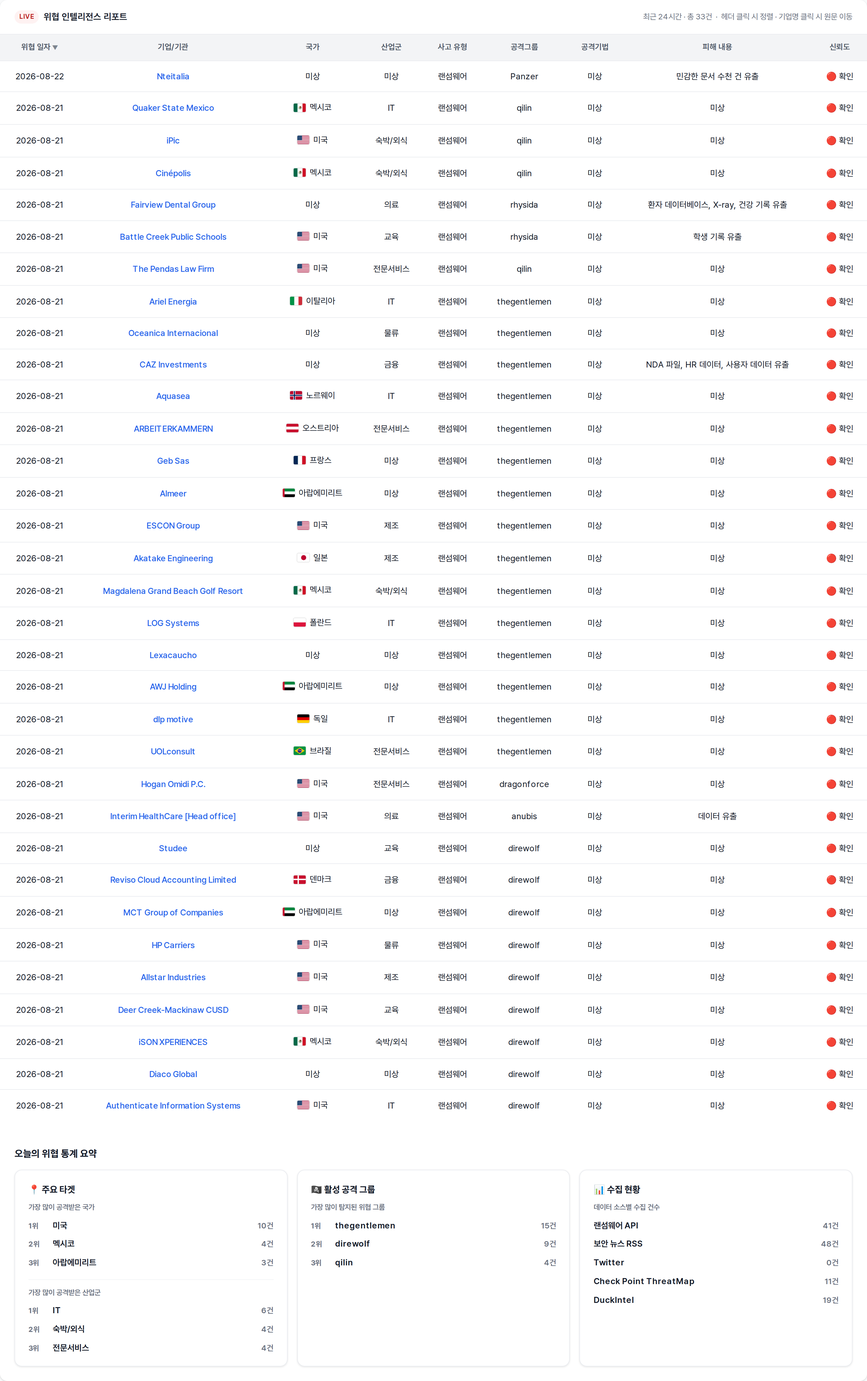
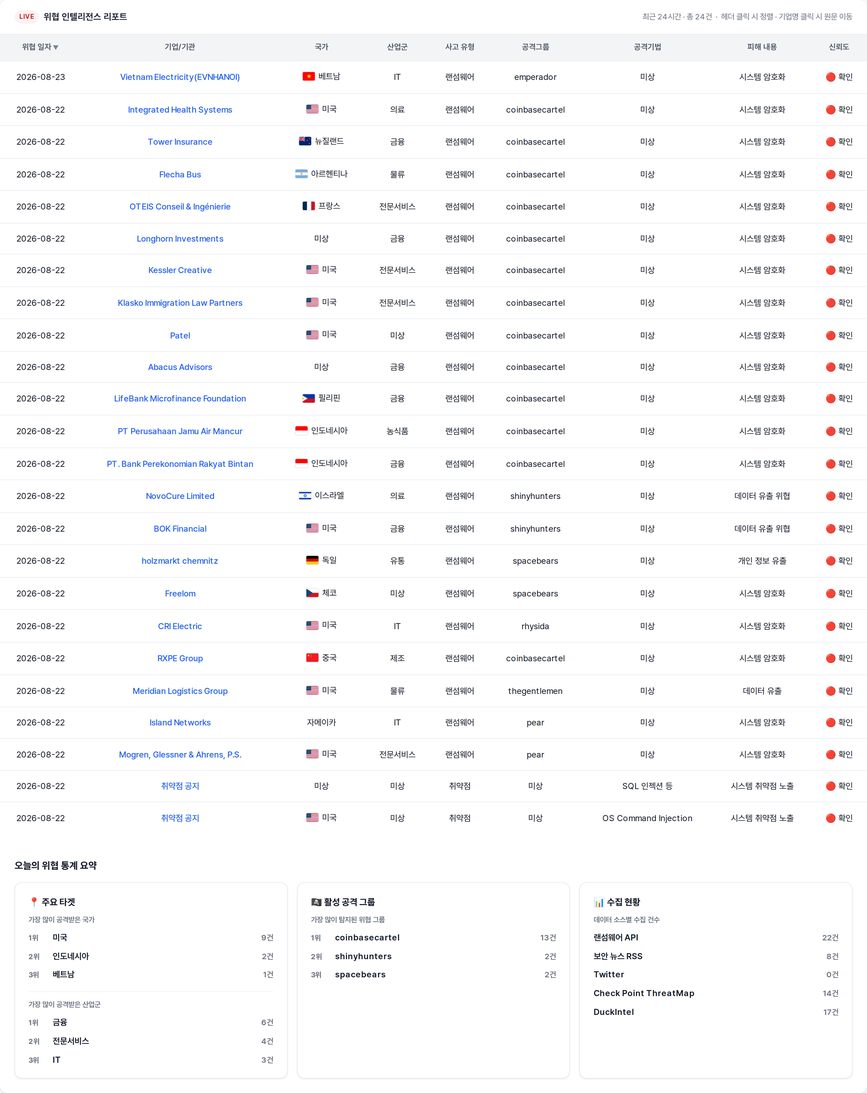
deploy: 9c533ad8fcaa3f846a31aadab046301a26f1192c

diff --git a/index.html b/index.html
@@ -3,7 +3,7 @@
 <head>
   <meta charset="UTF-8" />
   <meta name="viewport" content="width=device-width, initial-scale=1.0" />
-  <title>🚨 2026년 08월 22일 국내/해외 사이버 위협 현황</title>
+  <title>🚨 2026년 08월 23일 국내/해외 사이버 위협 현황</title>
   <link rel="preconnect" href="https://cdn.jsdelivr.net" />
   <link href="https://cdn.jsdelivr.net/gh/orioncactus/pretendard/dist/web/static/pretendard.css" rel="stylesheet" />
   <style>
@@ -253,7 +253,7 @@
 </head>
 <body>
   <div class="page-header">
-    <h1 class="page-title">🚨 2026년 08월 22일 국내/해외 사이버 위협 현황</h1>
+    <h1 class="page-title">🚨 2026년 08월 23일 국내/해외 사이버 위협 현황</h1>
   </div>
 
   <div class="dashboard">
@@ -261,45 +261,36 @@
     <div class="card-header">
       <span class="badge">LIVE</span>
       <span class="card-title">위협 인텔리전스 리포트</span>
-      <span class="card-count">최근 24시간 · 총 33건 &nbsp;·&nbsp; 헤더 클릭 시 정렬 · 기업명 클릭 시 원문 이동</span>
+      <span class="card-count">최근 24시간 · 총 24건 &nbsp;·&nbsp; 헤더 클릭 시 정렬 · 기업명 클릭 시 원문 이동</span>
     </div>
     <div class="table-wrap" style="overflow-x: auto; -webkit-overflow-scrolling: touch;">
       <table id="threat-table">
         <thead><tr><th onclick="sortTable(0)" data-col="0" class="sort-desc">위협 일자</th><th onclick="sortTable(1)" data-col="1">기업/기관</th><th onclick="sortTable(2)" data-col="2">국가</th><th onclick="sortTable(3)" data-col="3">산업군</th><th onclick="sortTable(4)" data-col="4">사고 유형</th><th onclick="sortTable(5)" data-col="5">공격그룹</th><th onclick="sortTable(6)" data-col="6">공격기법</th><th onclick="sortTable(7)" data-col="7">피해 내용</th><th onclick="sortTable(8)" data-col="8">신뢰도</th></tr></thead>
         <tbody>
-<tr><td>2026-08-22</td><td><a href="https://www.ransomware.live/id/TnRlaXRhbGlhQFBhbnplcg==" target="_blank" rel="noopener noreferrer">Nteitalia</a></td><td class="country"><span class="country-cell">미상</span></td><td>미상</td><td>랜섬웨어</td><td>Panzer</td><td>미상</td><td>민감한 문서 수천 건 유출</td><td>🔴 확인</td></tr>
-<tr><td>2026-08-21</td><td><a href="https://www.ransomware.live/id/UXVha2VyIFN0YXRlIE1leGljb0BxaWxpbg==" target="_blank" rel="noopener noreferrer">Quaker State Mexico</a></td><td class="country"><span class="country-cell"><img class="flag" src="https://flagcdn.com/w40/mx.png" alt="멕시코" width="20" height="14" />멕시코</span></td><td>IT</td><td>랜섬웨어</td><td>qilin</td><td>미상</td><td>미상</td><td>🔴 확인</td></tr>
-<tr><td>2026-08-21</td><td><a href="https://www.ransomware.live/id/aVBpY0BxaWxpbg==" target="_blank" rel="noopener noreferrer">iPic</a></td><td class="country"><span class="country-cell"><img class="flag" src="https://flagcdn.com/w40/us.png" alt="미국" width="20" height="14" />미국</span></td><td>숙박/외식</td><td>랜섬웨어</td><td>qilin</td><td>미상</td><td>미상</td><td>🔴 확인</td></tr>
-<tr><td>2026-08-21</td><td><a href="https://www.ransomware.live/id/Q2luw6lwb2xpc0BxaWxpbg==" target="_blank" rel="noopener noreferrer">Cinépolis</a></td><td class="country"><span class="country-cell"><img class="flag" src="https://flagcdn.com/w40/mx.png" alt="멕시코" width="20" height="14" />멕시코</span></td><td>숙박/외식</td><td>랜섬웨어</td><td>qilin</td><td>미상</td><td>미상</td><td>🔴 확인</td></tr>
-<tr><td>2026-08-21</td><td><a href="https://www.ransomware.live/id/RmFpcnZpZXcgRGVudGFsIEdyb3VwQHJoeXNpZGE=" target="_blank" rel="noopener noreferrer">Fairview Dental Group</a></td><td class="country"><span class="country-cell">미상</span></td><td>의료</td><td>랜섬웨어</td><td>rhysida</td><td>미상</td><td>환자 데이터베이스, X-ray, 건강 기록 유출</td><td>🔴 확인</td></tr>
-<tr><td>2026-08-21</td><td><a href="https://www.ransomware.live/id/QmF0dGxlIENyZWVrIFB1YmxpYyBTY2hvb2xzQHJoeXNpZGE=" target="_blank" rel="noopener noreferrer">Battle Creek Public Schools</a></td><td class="country"><span class="country-cell"><img class="flag" src="https://flagcdn.com/w40/us.png" alt="미국" width="20" height="14" />미국</span></td><td>교육</td><td>랜섬웨어</td><td>rhysida</td><td>미상</td><td>학생 기록 유출</td><td>🔴 확인</td></tr>
-<tr><td>2026-08-21</td><td><a href="https://www.ransomware.live/id/VGhlIFBlbmRhcyBMYXcgRmlybUBxaWxpbg==" target="_blank" rel="noopener noreferrer">The Pendas Law Firm</a></td><td class="country"><span class="country-cell"><img class="flag" src="https://flagcdn.com/w40/us.png" alt="미국" width="20" height="14" />미국</span></td><td>전문서비스</td><td>랜섬웨어</td><td>qilin</td><td>미상</td><td>미상</td><td>🔴 확인</td></tr>
-<tr><td>2026-08-21</td><td><a href="https://www.ransomware.live/id/QXJpZWwgRW5lcmdpYUB0aGVnZW50bGVtZW4=" target="_blank" rel="noopener noreferrer">Ariel Energia</a></td><td class="country"><span class="country-cell"><img class="flag" src="https://flagcdn.com/w40/it.png" alt="이탈리아" width="20" height="14" />이탈리아</span></td><td>IT</td><td>랜섬웨어</td><td>thegentlemen</td><td>미상</td><td>미상</td><td>🔴 확인</td></tr>
-<tr><td>2026-08-21</td><td><a href="https://www.ransomware.live/id/T2NlYW5pY2EgSW50ZXJuYWNpb25hbEB0aGVnZW50bGVtZW4=" target="_blank" rel="noopener noreferrer">Oceanica Internacional</a></td><td class="country"><span class="country-cell">미상</span></td><td>물류</td><td>랜섬웨어</td><td>thegentlemen</td><td>미상</td><td>미상</td><td>🔴 확인</td></tr>
-<tr><td>2026-08-21</td><td><a href="https://www.ransomware.live/id/Q0FaIEludmVzdG1lbnRzQHRoZWdlbnRsZW1lbg==" target="_blank" rel="noopener noreferrer">CAZ Investments</a></td><td class="country"><span class="country-cell">미상</span></td><td>금융</td><td>랜섬웨어</td><td>thegentlemen</td><td>미상</td><td>NDA 파일, HR 데이터, 사용자 데이터 유출</td><td>🔴 확인</td></tr>
-<tr><td>2026-08-21</td><td><a href="https://www.ransomware.live/id/QXF1YXNlYUB0aGVnZW50bGVtZW4=" target="_blank" rel="noopener noreferrer">Aquasea</a></td><td class="country"><span class="country-cell"><img class="flag" src="https://flagcdn.com/w40/no.png" alt="노르웨이" width="20" height="14" />노르웨이</span></td><td>IT</td><td>랜섬웨어</td><td>thegentlemen</td><td>미상</td><td>미상</td><td>🔴 확인</td></tr>
-<tr><td>2026-08-21</td><td><a href="https://www.ransomware.live/id/QVJCRUlURVJLQU1NRVJOQHRoZWdlbnRsZW1lbg==" target="_blank" rel="noopener noreferrer">ARBEITERKAMMERN</a></td><td class="country"><span class="country-cell"><img class="flag" src="https://flagcdn.com/w40/at.png" alt="오스트리아" width="20" height="14" />오스트리아</span></td><td>전문서비스</td><td>랜섬웨어</td><td>thegentlemen</td><td>미상</td><td>미상</td><td>🔴 확인</td></tr>
-<tr><td>2026-08-21</td><td><a href="https://www.ransomware.live/id/R2ViIFNhc0B0aGVnZW50bGVtZW4=" target="_blank" rel="noopener noreferrer">Geb Sas</a></td><td class="country"><span class="country-cell"><img class="flag" src="https://flagcdn.com/w40/fr.png" alt="프랑스" width="20" height="14" />프랑스</span></td><td>미상</td><td>랜섬웨어</td><td>thegentlemen</td><td>미상</td><td>미상</td><td>🔴 확인</td></tr>
-<tr><td>2026-08-21</td><td><a href="https://www.ransomware.live/id/QWxtZWVyQHRoZWdlbnRsZW1lbg==" target="_blank" rel="noopener noreferrer">Almeer</a></td><td class="country"><span class="country-cell"><img class="flag" src="https://flagcdn.com/w40/ae.png" alt="아랍에미리트" width="20" height="14" />아랍에미리트</span></td><td>미상</td><td>랜섬웨어</td><td>thegentlemen</td><td>미상</td><td>미상</td><td>🔴 확인</td></tr>
-<tr><td>2026-08-21</td><td><a href="https://www.ransomware.live/id/RVNDT04gR3JvdXBAdGhlZ2VudGxlbWVu" target="_blank" rel="noopener noreferrer">ESCON Group</a></td><td class="country"><span class="country-cell"><img class="flag" src="https://flagcdn.com/w40/us.png" alt="미국" width="20" height="14" />미국</span></td><td>제조</td><td>랜섬웨어</td><td>thegentlemen</td><td>미상</td><td>미상</td><td>🔴 확인</td></tr>
-<tr><td>2026-08-21</td><td><a href="https://www.ransomware.live/id/QWthdGFrZSBFbmdpbmVlcmluZ0B0aGVnZW50bGVtZW4=" target="_blank" rel="noopener noreferrer">Akatake Engineering</a></td><td class="country"><span class="country-cell"><img class="flag" src="https://flagcdn.com/w40/jp.png" alt="일본" width="20" height="14" />일본</span></td><td>제조</td><td>랜섬웨어</td><td>thegentlemen</td><td>미상</td><td>미상</td><td>🔴 확인</td></tr>
-<tr><td>2026-08-21</td><td><a href="https://www.ransomware.live/id/TWFnZGFsZW5hIEdyYW5kIEJlYWNoIEdvbGYgUmVzb3J0QHRoZWdlbnRsZW1lbg==" target="_blank" rel="noopener noreferrer">Magdalena Grand Beach Golf Resort</a></td><td class="country"><span class="country-cell"><img class="flag" src="https://flagcdn.com/w40/mx.png" alt="멕시코" width="20" height="14" />멕시코</span></td><td>숙박/외식</td><td>랜섬웨어</td><td>thegentlemen</td><td>미상</td><td>미상</td><td>🔴 확인</td></tr>
-<tr><td>2026-08-21</td><td><a href="https://www.ransomware.live/id/TE9HIFN5c3RlbXNAdGhlZ2VudGxlbWVu" target="_blank" rel="noopener noreferrer">LOG Systems</a></td><td class="country"><span class="country-cell"><img class="flag" src="https://flagcdn.com/w40/pl.png" alt="폴란드" width="20" height="14" />폴란드</span></td><td>IT</td><td>랜섬웨어</td><td>thegentlemen</td><td>미상</td><td>미상</td><td>🔴 확인</td></tr>
-<tr><td>2026-08-21</td><td><a href="https://www.ransomware.live/id/TGV4YWNhdWNob0B0aGVnZW50bGVtZW4=" target="_blank" rel="noopener noreferrer">Lexacaucho</a></td><td class="country"><span class="country-cell">미상</span></td><td>미상</td><td>랜섬웨어</td><td>thegentlemen</td><td>미상</td><td>미상</td><td>🔴 확인</td></tr>
-<tr><td>2026-08-21</td><td><a href="https://www.ransomware.live/id/QVdKIEhvbGRpbmdAdGhlZ2VudGxlbWVu" target="_blank" rel="noopener noreferrer">AWJ Holding</a></td><td class="country"><span class="country-cell"><img class="flag" src="https://flagcdn.com/w40/ae.png" alt="아랍에미리트" width="20" height="14" />아랍에미리트</span></td><td>미상</td><td>랜섬웨어</td><td>thegentlemen</td><td>미상</td><td>미상</td><td>🔴 확인</td></tr>
-<tr><td>2026-08-21</td><td><a href="https://www.ransomware.live/id/ZGxwIG1vdGl2ZUB0aGVnZW50bGVtZW4=" target="_blank" rel="noopener noreferrer">dlp motive</a></td><td class="country"><span class="country-cell"><img class="flag" src="https://flagcdn.com/w40/de.png" alt="독일" width="20" height="14" />독일</span></td><td>IT</td><td>랜섬웨어</td><td>thegentlemen</td><td>미상</td><td>미상</td><td>🔴 확인</td></tr>
-<tr><td>2026-08-21</td><td><a href="https://www.ransomware.live/id/VU9MY29uc3VsdEB0aGVnZW50bGVtZW4=" target="_blank" rel="noopener noreferrer">UOLconsult</a></td><td class="country"><span class="country-cell"><img class="flag" src="https://flagcdn.com/w40/br.png" alt="브라질" width="20" height="14" />브라질</span></td><td>전문서비스</td><td>랜섬웨어</td><td>thegentlemen</td><td>미상</td><td>미상</td><td>🔴 확인</td></tr>
-<tr><td>2026-08-21</td><td><a href="https://www.ransomware.live/id/SG9nYW4gT21pZGkgUC5DLkBkcmFnb25mb3JjZQ==" target="_blank" rel="noopener noreferrer">Hogan Omidi P.C.</a></td><td class="country"><span class="country-cell"><img class="flag" src="https://flagcdn.com/w40/us.png" alt="미국" width="20" height="14" />미국</span></td><td>전문서비스</td><td>랜섬웨어</td><td>dragonforce</td><td>미상</td><td>미상</td><td>🔴 확인</td></tr>
-<tr><td>2026-08-21</td><td><a href="https://www.ransomware.live/id/SW50ZXJpbSBIZWFsdGhDYXJlIFtIZWFkIG9mZmljZV1AYW51Ymlz" target="_blank" rel="noopener noreferrer">Interim HealthCare [Head office]</a></td><td class="country"><span class="country-cell"><img class="flag" src="https://flagcdn.com/w40/us.png" alt="미국" width="20" height="14" />미국</span></td><td>의료</td><td>랜섬웨어</td><td>anubis</td><td>미상</td><td>데이터 유출</td><td>🔴 확인</td></tr>
-<tr><td>2026-08-21</td><td><a href="https://www.ransomware.live/id/U3R1ZGVlQGRpcmV3b2xm" target="_blank" rel="noopener noreferrer">Studee</a></td><td class="country"><span class="country-cell">미상</span></td><td>교육</td><td>랜섬웨어</td><td>direwolf</td><td>미상</td><td>미상</td><td>🔴 확인</td></tr>
-<tr><td>2026-08-21</td><td><a href="https://www.ransomware.live/id/UmV2aXNvIENsb3VkIEFjY291bnRpbmcgTGltaXRlZEBkaXJld29sZg==" target="_blank" rel="noopener noreferrer">Reviso Cloud Accounting Limited</a></td><td class="country"><span class="country-cell"><img class="flag" src="https://flagcdn.com/w40/dk.png" alt="덴마크" width="20" height="14" />덴마크</span></td><td>금융</td><td>랜섬웨어</td><td>direwolf</td><td>미상</td><td>미상</td><td>🔴 확인</td></tr>
-<tr><td>2026-08-21</td><td><a href="https://www.ransomware.live/id/TUNUIEdyb3VwIG9mIENvbXBhbmllc0BkaXJld29sZg==" target="_blank" rel="noopener noreferrer">MCT Group of Companies</a></td><td class="country"><span class="country-cell"><img class="flag" src="https://flagcdn.com/w40/ae.png" alt="아랍에미리트" width="20" height="14" />아랍에미리트</span></td><td>미상</td><td>랜섬웨어</td><td>direwolf</td><td>미상</td><td>미상</td><td>🔴 확인</td></tr>
-<tr><td>2026-08-21</td><td><a href="https://www.ransomware.live/id/SFAgQ2FycmllcnNAZGlyZXdvbGY=" target="_blank" rel="noopener noreferrer">HP Carriers</a></td><td class="country"><span class="country-cell"><img class="flag" src="https://flagcdn.com/w40/us.png" alt="미국" width="20" height="14" />미국</span></td><td>물류</td><td>랜섬웨어</td><td>direwolf</td><td>미상</td><td>미상</td><td>🔴 확인</td></tr>
-<tr><td>2026-08-21</td><td><a href="https://www.ransomware.live/id/QWxsc3RhciBJbmR1c3RyaWVzQGRpcmV3b2xm" target="_blank" rel="noopener noreferrer">Allstar Industries</a></td><td class="country"><span class="country-cell"><img class="flag" src="https://flagcdn.com/w40/us.png" alt="미국" width="20" height="14" />미국</span></td><td>제조</td><td>랜섬웨어</td><td>direwolf</td><td>미상</td><td>미상</td><td>🔴 확인</td></tr>
-<tr><td>2026-08-21</td><td><a href="https://www.ransomware.live/id/RGVlciBDcmVlay1NYWNraW5hdyBDVVNEQGRpcmV3b2xm" target="_blank" rel="noopener noreferrer">Deer Creek-Mackinaw CUSD</a></td><td class="country"><span class="country-cell"><img class="flag" src="https://flagcdn.com/w40/us.png" alt="미국" width="20" height="14" />미국</span></td><td>교육</td><td>랜섬웨어</td><td>direwolf</td><td>미상</td><td>미상</td><td>🔴 확인</td></tr>
-<tr><td>2026-08-21</td><td><a href="https://www.ransomware.live/id/aVNPTiBYUEVSSUVOQ0VTQGRpcmV3b2xm" target="_blank" rel="noopener noreferrer">iSON XPERIENCES</a></td><td class="country"><span class="country-cell"><img class="flag" src="https://flagcdn.com/w40/mx.png" alt="멕시코" width="20" height="14" />멕시코</span></td><td>숙박/외식</td><td>랜섬웨어</td><td>direwolf</td><td>미상</td><td>미상</td><td>🔴 확인</td></tr>
-<tr><td>2026-08-21</td><td><a href="https://www.ransomware.live/id/RGlhY28gR2xvYmFsQGRpcmV3b2xm" target="_blank" rel="noopener noreferrer">Diaco Global</a></td><td class="country"><span class="country-cell">미상</span></td><td>미상</td><td>랜섬웨어</td><td>direwolf</td><td>미상</td><td>미상</td><td>🔴 확인</td></tr>
-<tr><td>2026-08-21</td><td><a href="https://www.ransomware.live/id/QXV0aGVudGljYXRlIEluZm9ybWF0aW9uIFN5c3RlbXNAZGlyZXdvbGY=" target="_blank" rel="noopener noreferrer">Authenticate Information Systems</a></td><td class="country"><span class="country-cell"><img class="flag" src="https://flagcdn.com/w40/us.png" alt="미국" width="20" height="14" />미국</span></td><td>IT</td><td>랜섬웨어</td><td>direwolf</td><td>미상</td><td>미상</td><td>🔴 확인</td></tr>
+<tr><td>2026-08-23</td><td><a href="https://www.ransomware.live/id/VmlldG5hbSBFbGVjdHJpY2l0eShFVk5IQU5PSSlAZW1wZXJhZG9y" target="_blank" rel="noopener noreferrer">Vietnam Electricity(EVNHANOI)</a></td><td class="country"><span class="country-cell"><img class="flag" src="https://flagcdn.com/w40/vn.png" alt="베트남" width="20" height="14" />베트남</span></td><td>IT</td><td>랜섬웨어</td><td>emperador</td><td>미상</td><td>시스템 암호화</td><td>🔴 확인</td></tr>
+<tr><td>2026-08-22</td><td><a href="https://www.ransomware.live/id/SW50ZWdyYXRlZCBIZWFsdGggU3lzdGVtc0Bjb2luYmFzZWNhcnRlbA==" target="_blank" rel="noopener noreferrer">Integrated Health Systems</a></td><td class="country"><span class="country-cell"><img class="flag" src="https://flagcdn.com/w40/us.png" alt="미국" width="20" height="14" />미국</span></td><td>의료</td><td>랜섬웨어</td><td>coinbasecartel</td><td>미상</td><td>시스템 암호화</td><td>🔴 확인</td></tr>
+<tr><td>2026-08-22</td><td><a href="https://www.ransomware.live/id/VG93ZXIgSW5zdXJhbmNlQGNvaW5iYXNlY2FydGVs" target="_blank" rel="noopener noreferrer">Tower Insurance</a></td><td class="country"><span class="country-cell"><img class="flag" src="https://flagcdn.com/w40/nz.png" alt="뉴질랜드" width="20" height="14" />뉴질랜드</span></td><td>금융</td><td>랜섬웨어</td><td>coinbasecartel</td><td>미상</td><td>시스템 암호화</td><td>🔴 확인</td></tr>
+<tr><td>2026-08-22</td><td><a href="https://www.ransomware.live/id/RmxlY2hhIEJ1c0Bjb2luYmFzZWNhcnRlbA==" target="_blank" rel="noopener noreferrer">Flecha Bus</a></td><td class="country"><span class="country-cell"><img class="flag" src="https://flagcdn.com/w40/ar.png" alt="아르헨티나" width="20" height="14" />아르헨티나</span></td><td>물류</td><td>랜섬웨어</td><td>coinbasecartel</td><td>미상</td><td>시스템 암호화</td><td>🔴 확인</td></tr>
+<tr><td>2026-08-22</td><td><a href="https://www.ransomware.live/id/T1RFSVMgQ29uc2VpbCAmIEluZ8OpbmllcmllQGNvaW5iYXNlY2FydGVs" target="_blank" rel="noopener noreferrer">OTEIS Conseil &amp; Ingénierie</a></td><td class="country"><span class="country-cell"><img class="flag" src="https://flagcdn.com/w40/fr.png" alt="프랑스" width="20" height="14" />프랑스</span></td><td>전문서비스</td><td>랜섬웨어</td><td>coinbasecartel</td><td>미상</td><td>시스템 암호화</td><td>🔴 확인</td></tr>
+<tr><td>2026-08-22</td><td><a href="https://www.ransomware.live/id/TG9uZ2hvcm4gSW52ZXN0bWVudHNAY29pbmJhc2VjYXJ0ZWw=" target="_blank" rel="noopener noreferrer">Longhorn Investments</a></td><td class="country"><span class="country-cell">미상</span></td><td>금융</td><td>랜섬웨어</td><td>coinbasecartel</td><td>미상</td><td>시스템 암호화</td><td>🔴 확인</td></tr>
+<tr><td>2026-08-22</td><td><a href="https://www.ransomware.live/id/S2Vzc2xlciBDcmVhdGl2ZUBjb2luYmFzZWNhcnRlbA==" target="_blank" rel="noopener noreferrer">Kessler Creative</a></td><td class="country"><span class="country-cell"><img class="flag" src="https://flagcdn.com/w40/us.png" alt="미국" width="20" height="14" />미국</span></td><td>전문서비스</td><td>랜섬웨어</td><td>coinbasecartel</td><td>미상</td><td>시스템 암호화</td><td>🔴 확인</td></tr>
+<tr><td>2026-08-22</td><td><a href="https://www.ransomware.live/id/S2xhc2tvIEltbWlncmF0aW9uIExhdyBQYXJ0bmVyc0Bjb2luYmFzZWNhcnRlbA==" target="_blank" rel="noopener noreferrer">Klasko Immigration Law Partners</a></td><td class="country"><span class="country-cell"><img class="flag" src="https://flagcdn.com/w40/us.png" alt="미국" width="20" height="14" />미국</span></td><td>전문서비스</td><td>랜섬웨어</td><td>coinbasecartel</td><td>미상</td><td>시스템 암호화</td><td>🔴 확인</td></tr>
+<tr><td>2026-08-22</td><td><a href="https://www.ransomware.live/id/UGF0ZWxAY29pbmJhc2VjYXJ0ZWw=" target="_blank" rel="noopener noreferrer">Patel</a></td><td class="country"><span class="country-cell"><img class="flag" src="https://flagcdn.com/w40/us.png" alt="미국" width="20" height="14" />미국</span></td><td>미상</td><td>랜섬웨어</td><td>coinbasecartel</td><td>미상</td><td>시스템 암호화</td><td>🔴 확인</td></tr>
+<tr><td>2026-08-22</td><td><a href="https://www.ransomware.live/id/QWJhY3VzIEFkdmlzb3JzQGNvaW5iYXNlY2FydGVs" target="_blank" rel="noopener noreferrer">Abacus Advisors</a></td><td class="country"><span class="country-cell">미상</span></td><td>금융</td><td>랜섬웨어</td><td>coinbasecartel</td><td>미상</td><td>시스템 암호화</td><td>🔴 확인</td></tr>
+<tr><td>2026-08-22</td><td><a href="https://www.ransomware.live/id/TGlmZUJhbmsgTWljcm9maW5hbmNlIEZvdW5kYXRpb25AY29pbmJhc2VjYXJ0ZWw=" target="_blank" rel="noopener noreferrer">LifeBank Microfinance Foundation</a></td><td class="country"><span class="country-cell"><img class="flag" src="https://flagcdn.com/w40/ph.png" alt="필리핀" width="20" height="14" />필리핀</span></td><td>금융</td><td>랜섬웨어</td><td>coinbasecartel</td><td>미상</td><td>시스템 암호화</td><td>🔴 확인</td></tr>
+<tr><td>2026-08-22</td><td><a href="https://www.ransomware.live/id/UFQgUGVydXNhaGFhbiBKYW11IEFpciBNYW5jdXJAY29pbmJhc2VjYXJ0ZWw=" target="_blank" rel="noopener noreferrer">PT Perusahaan Jamu Air Mancur</a></td><td class="country"><span class="country-cell"><img class="flag" src="https://flagcdn.com/w40/id.png" alt="인도네시아" width="20" height="14" />인도네시아</span></td><td>농식품</td><td>랜섬웨어</td><td>coinbasecartel</td><td>미상</td><td>시스템 암호화</td><td>🔴 확인</td></tr>
+<tr><td>2026-08-22</td><td><a href="https://www.ransomware.live/id/UFQuIEJhbmsgUGVyZWtvbm9taWFuIFJha3lhdCBCaW50YW5AY29pbmJhc2VjYXJ0ZWw=" target="_blank" rel="noopener noreferrer">PT. Bank Perekonomian Rakyat Bintan</a></td><td class="country"><span class="country-cell"><img class="flag" src="https://flagcdn.com/w40/id.png" alt="인도네시아" width="20" height="14" />인도네시아</span></td><td>금융</td><td>랜섬웨어</td><td>coinbasecartel</td><td>미상</td><td>시스템 암호화</td><td>🔴 확인</td></tr>
+<tr><td>2026-08-22</td><td><a href="https://www.ransomware.live/id/Tm92b0N1cmUgTGltaXRlZEBzaGlueWh1bnRlcnM=" target="_blank" rel="noopener noreferrer">NovoCure Limited</a></td><td class="country"><span class="country-cell"><img class="flag" src="https://flagcdn.com/w40/il.png" alt="이스라엘" width="20" height="14" />이스라엘</span></td><td>의료</td><td>랜섬웨어</td><td>shinyhunters</td><td>미상</td><td>데이터 유출 위협</td><td>🔴 확인</td></tr>
+<tr><td>2026-08-22</td><td><a href="https://www.ransomware.live/id/Qk9LIEZpbmFuY2lhbEBzaGlueWh1bnRlcnM=" target="_blank" rel="noopener noreferrer">BOK Financial</a></td><td class="country"><span class="country-cell"><img class="flag" src="https://flagcdn.com/w40/us.png" alt="미국" width="20" height="14" />미국</span></td><td>금융</td><td>랜섬웨어</td><td>shinyhunters</td><td>미상</td><td>데이터 유출 위협</td><td>🔴 확인</td></tr>
+<tr><td>2026-08-22</td><td><a href="https://www.ransomware.live/id/aG9sem1hcmt0IGNoZW1uaXR6QHNwYWNlYmVhcnM=" target="_blank" rel="noopener noreferrer">holzmarkt chemnitz</a></td><td class="country"><span class="country-cell"><img class="flag" src="https://flagcdn.com/w40/de.png" alt="독일" width="20" height="14" />독일</span></td><td>유통</td><td>랜섬웨어</td><td>spacebears</td><td>미상</td><td>개인 정보 유출</td><td>🔴 확인</td></tr>
+<tr><td>2026-08-22</td><td><a href="https://www.ransomware.live/id/RnJlZWxvbUBzcGFjZWJlYXJz" target="_blank" rel="noopener noreferrer">Freelom</a></td><td class="country"><span class="country-cell"><img class="flag" src="https://flagcdn.com/w40/cz.png" alt="체코" width="20" height="14" />체코</span></td><td>미상</td><td>랜섬웨어</td><td>spacebears</td><td>미상</td><td>시스템 암호화</td><td>🔴 확인</td></tr>
+<tr><td>2026-08-22</td><td><a href="https://www.ransomware.live/id/Q1JJIEVsZWN0cmljQHJoeXNpZGE=" target="_blank" rel="noopener noreferrer">CRI Electric</a></td><td class="country"><span class="country-cell"><img class="flag" src="https://flagcdn.com/w40/us.png" alt="미국" width="20" height="14" />미국</span></td><td>IT</td><td>랜섬웨어</td><td>rhysida</td><td>미상</td><td>시스템 암호화</td><td>🔴 확인</td></tr>
+<tr><td>2026-08-22</td><td><a href="https://www.ransomware.live/id/UlhQRSBHcm91cEBjb2luYmFzZWNhcnRlbA==" target="_blank" rel="noopener noreferrer">RXPE Group</a></td><td class="country"><span class="country-cell"><img class="flag" src="https://flagcdn.com/w40/cn.png" alt="중국" width="20" height="14" />중국</span></td><td>제조</td><td>랜섬웨어</td><td>coinbasecartel</td><td>미상</td><td>시스템 암호화</td><td>🔴 확인</td></tr>
+<tr><td>2026-08-22</td><td><a href="https://www.ransomware.live/id/TWVyaWRpYW4gTG9naXN0aWNzIEdyb3VwQHRoZWdlbnRsZW1lbg==" target="_blank" rel="noopener noreferrer">Meridian Logistics Group</a></td><td class="country"><span class="country-cell"><img class="flag" src="https://flagcdn.com/w40/us.png" alt="미국" width="20" height="14" />미국</span></td><td>물류</td><td>랜섬웨어</td><td>thegentlemen</td><td>미상</td><td>데이터 유출</td><td>🔴 확인</td></tr>
+<tr><td>2026-08-22</td><td><a href="https://www.ransomware.live/id/SXNsYW5kIE5ldHdvcmtzQHBlYXI=" target="_blank" rel="noopener noreferrer">Island Networks</a></td><td class="country"><span class="country-cell">자메이카</span></td><td>IT</td><td>랜섬웨어</td><td>pear</td><td>미상</td><td>시스템 암호화</td><td>🔴 확인</td></tr>
+<tr><td>2026-08-22</td><td><a href="https://www.ransomware.live/id/TW9ncmVuLCBHbGVzc25lciAmIEFocmVucywgUC5TLkBwZWFy" target="_blank" rel="noopener noreferrer">Mogren, Glessner &amp; Ahrens, P.S.</a></td><td class="country"><span class="country-cell"><img class="flag" src="https://flagcdn.com/w40/us.png" alt="미국" width="20" height="14" />미국</span></td><td>전문서비스</td><td>랜섬웨어</td><td>pear</td><td>미상</td><td>시스템 암호화</td><td>🔴 확인</td></tr>
+<tr><td>2026-08-22</td><td><a href="https://www.dailysecu.com/news/articleView.html?idxno=208149" target="_blank" rel="noopener noreferrer">취약점 공지</a></td><td class="country"><span class="country-cell">미상</span></td><td>미상</td><td>취약점</td><td>미상</td><td>SQL 인젝션 등</td><td>시스템 취약점 노출</td><td>🔴 확인</td></tr>
+<tr><td>2026-08-22</td><td><a href="https://nvd.nist.gov/vuln/detail/CVE-2026-73570" target="_blank" rel="noopener noreferrer">취약점 공지</a></td><td class="country"><span class="country-cell"><img class="flag" src="https://flagcdn.com/w40/us.png" alt="미국" width="20" height="14" />미국</span></td><td>미상</td><td>취약점</td><td>미상</td><td>OS Command Injection</td><td>시스템 취약점 노출</td><td>🔴 확인</td></tr>
         </tbody>
       </table>
     </div>
@@ -310,19 +301,19 @@
       <article class="stat-card">
         <h3 class="stat-title">📍 주요 타겟</h3>
         <p class="stat-subtitle">가장 많이 공격받은 국가</p>
-        <ol class="stat-list"><li><span class="stat-rank">1위</span><span class="stat-name">미국</span><span class="stat-count">10건</span></li><li><span class="stat-rank">2위</span><span class="stat-name">멕시코</span><span class="stat-count">4건</span></li><li><span class="stat-rank">3위</span><span class="stat-name">아랍에미리트</span><span class="stat-count">3건</span></li></ol>
+        <ol class="stat-list"><li><span class="stat-rank">1위</span><span class="stat-name">미국</span><span class="stat-count">9건</span></li><li><span class="stat-rank">2위</span><span class="stat-name">인도네시아</span><span class="stat-count">2건</span></li><li><span class="stat-rank">3위</span><span class="stat-name">베트남</span><span class="stat-count">1건</span></li></ol>
         <p class="stat-subtitle stat-subtitle-gap">가장 많이 공격받은 산업군</p>
-        <ol class="stat-list"><li><span class="stat-rank">1위</span><span class="stat-name">IT</span><span class="stat-count">6건</span></li><li><span class="stat-rank">2위</span><span class="stat-name">숙박/외식</span><span class="stat-count">4건</span></li><li><span class="stat-rank">3위</span><span class="stat-name">전문서비스</span><span class="stat-count">4건</span></li></ol>
+        <ol class="stat-list"><li><span class="stat-rank">1위</span><span class="stat-name">금융</span><span class="stat-count">6건</span></li><li><span class="stat-rank">2위</span><span class="stat-name">전문서비스</span><span class="stat-count">4건</span></li><li><span class="stat-rank">3위</span><span class="stat-name">IT</span><span class="stat-count">3건</span></li></ol>
       </article>
       <article class="stat-card">
         <h3 class="stat-title">🏴☠ 활성 공격 그룹</h3>
         <p class="stat-subtitle">가장 많이 탐지된 위협 그룹</p>
-        <ol class="stat-list"><li><span class="stat-rank">1위</span><span class="stat-name">thegentlemen</span><span class="stat-count">15건</span></li><li><span class="stat-rank">2위</span><span class="stat-name">direwolf</span><span class="stat-count">9건</span></li><li><span class="stat-rank">3위</span><span class="stat-name">qilin</span><span class="stat-count">4건</span></li></ol>
+        <ol class="stat-list"><li><span class="stat-rank">1위</span><span class="stat-name">coinbasecartel</span><span class="stat-count">13건</span></li><li><span class="stat-rank">2위</span><span class="stat-name">shinyhunters</span><span class="stat-count">2건</span></li><li><span class="stat-rank">3위</span><span class="stat-name">spacebears</span><span class="stat-count">2건</span></li></ol>
       </article>
       <article class="stat-card">
         <h3 class="stat-title">📊 수집 현황</h3>
         <p class="stat-subtitle">데이터 소스별 수집 건수</p>
-        <ul class="stat-list stat-sources"><li><span class="stat-name">랜섬웨어 API</span><span class="stat-count">41건</span></li><li><span class="stat-name">보안 뉴스 RSS</span><span class="stat-count">48건</span></li><li><span class="stat-name">Twitter</span><span class="stat-count">0건</span></li><li><span class="stat-name">Check Point ThreatMap</span><span class="stat-count">11건</span></li><li><span class="stat-name">DuckIntel</span><span class="stat-count">19건</span></li></ul>
+        <ul class="stat-list stat-sources"><li><span class="stat-name">랜섬웨어 API</span><span class="stat-count">22건</span></li><li><span class="stat-name">보안 뉴스 RSS</span><span class="stat-count">8건</span></li><li><span class="stat-name">Twitter</span><span class="stat-count">0건</span></li><li><span class="stat-name">Check Point ThreatMap</span><span class="stat-count">14건</span></li><li><span class="stat-name">DuckIntel</span><span class="stat-count">17건</span></li></ul>
       </article>
     </div>
   </section>
